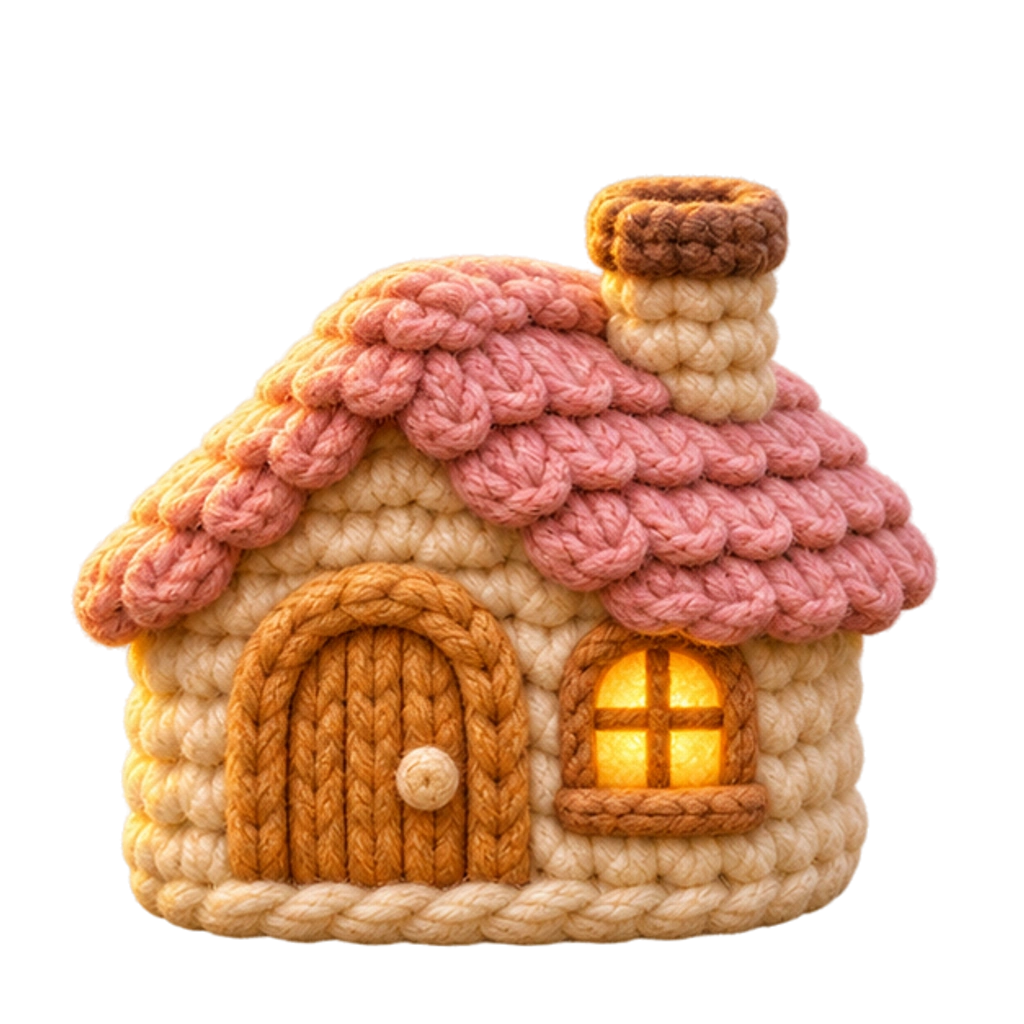
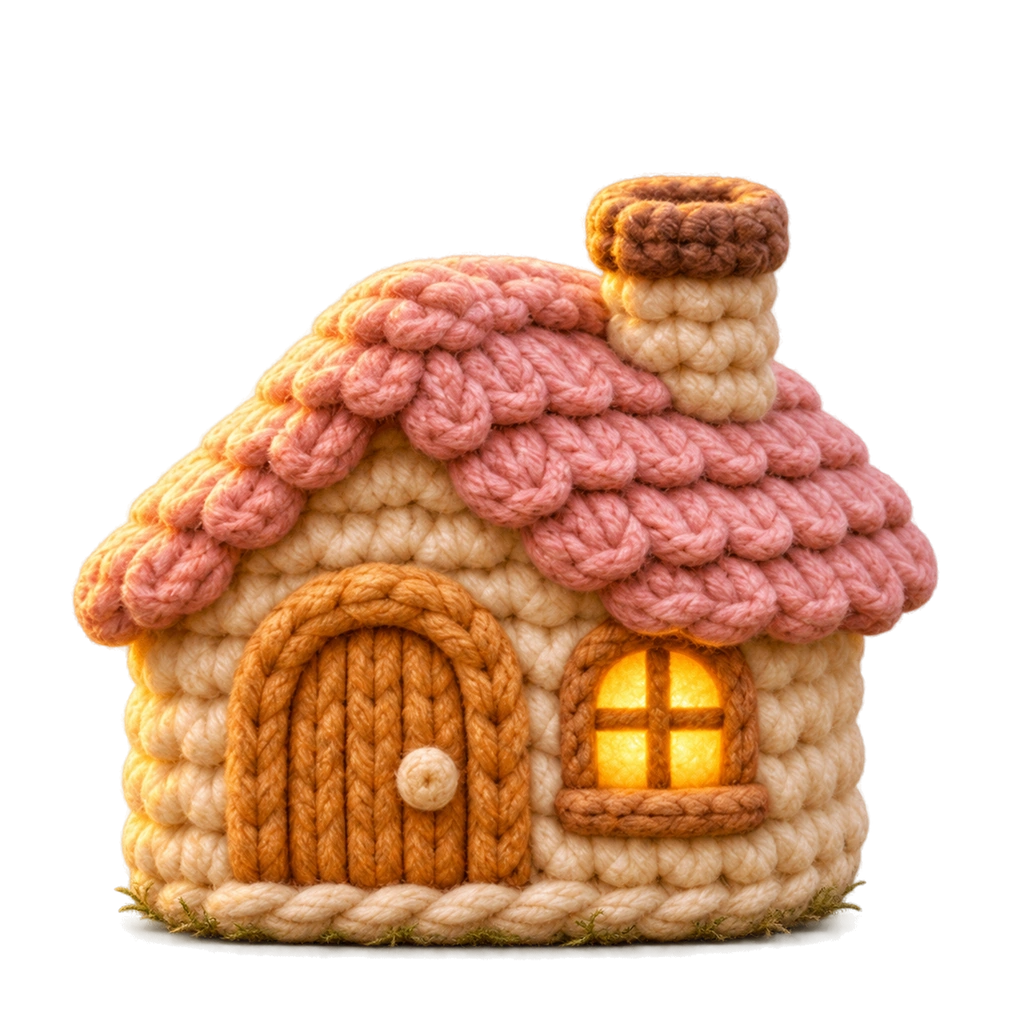
Record the reviewed reference comparison and final isolated scene build

diff --git a/play-preview/product/ui/shell.css b/play-preview/product/ui/shell.css
@@ -26,6 +26,7 @@ button:focus-visible{outline:3px solid #fff7d7;outline-offset:2px}
 .placed-object img{width:100%;height:100%;object-fit:contain;pointer-events:none;transform-origin:50% 75%}
 .placed-object:active img{transform:scale(.96)}
 .evening .placed-object{filter:brightness(.79) saturate(.8) drop-shadow(0 6px 5px #26243377)}
+.evening .placed-object.prelit{filter:none}
 .design-v4 #view-workshop .evening .meadow-back{filter:brightness(.73) saturate(.8) sepia(.08)}
 .action-dock{position:absolute;z-index:25;left:13%;right:13%;bottom:87px;display:flex;align-items:center;flex-direction:column;gap:8px}
 .action-dock .primary{min-height:50px;min-width:150px;padding:10px 22px;border-color:#a46768;background:linear-gradient(#e09aa8,#b9637e);color:#fff8e8;text-shadow:0 1px 2px #74434b;font-size:16px;font-weight:800;box-shadow:0 4px 7px #39251c66,inset 0 2px #ffe1cf99}
@@ -77,6 +78,8 @@ button:focus-visible{outline:3px solid #fff7d7;outline-offset:2px}
 .design-v4 .art-tabs .selected{filter:drop-shadow(0 0 3px #fff4a7)}
 .scene-v2 .action-dock{bottom:111px}
 .scene-v2 .action-dock .art-button{width:150px;height:50px}
+.scene-v2 .action-dock .art-navigation-action{width:112px;min-width:112px;height:84px}
+.scene-v2 .action-dock:has(.art-navigation-action) .action-hint{display:none}
 .scene-v2 .project-drawer{bottom:108px}
 .scene-v2 .drawer-shade{bottom:103px}
 .scene-v2 #view-workshop .scene-art{height:calc(100% - 36px)}

diff --git a/product/art-experiments/scene-v2/review/compare-after.html b/product/art-experiments/scene-v2/review/compare-after.html
@@ -1,0 +1,1 @@
+<!doctype html><html lang="ru"><meta charset="utf-8"><title>Сравнение 390×844</title><style>*{box-sizing:border-box}body{margin:0;padding:24px;background:#20271f;color:#faf0d9;font:16px system-ui}h1{font-size:22px;margin:0 0 8px}p{font-size:13px;margin:0 0 20px;color:#cbd0c3}.grid{display:flex;gap:24px}.label{height:30px;font-weight:650}.frame{width:390px;height:844px;background:#101610;display:flex;align-items:center;justify-content:center}.frame img{display:block;width:390px;height:844px;object-fit:contain}</style><h1>Одинаковые рамки 390×844 · после исправления</h1><p>Референс исходно 387×620: вписан целиком без искажения пропорций. Справа — фактический экран проверенной игровой сборки, пять созданных предметов.</p><div class="grid"><section><div class="label">Утверждённый референс</div><div class="frame"><img src="reference-v4.webp"></div></section><section><div class="label">Исправленная игровая сцена</div><div class="frame"><img src="after-day-390.png"></div></section></div></html>

diff --git a/product/VISUAL-REVIEW-V2.md b/product/VISUAL-REVIEW-V2.md
@@ -1,0 +1,40 @@
+# Visual repair v2 — first complete review scene
+
+The owner's 6 November requirement is the release gate: the actual game must not remain visibly below `design-system/reference-v4.webp` in material quality, volume, lighting, composition or cohesion. Passing technical tests alone does not meet it.
+
+## Comparison method
+
+The approved reference is 387×620. Both comparison panes are exactly390×844; the reference is contained without stretching or cropping and the game is a native390×844 browser capture. The full meadow is earned by playing all five projects. Empty-state evidence checks that future objects are not baked into the background.
+
+- [Before comparison](art-experiments/scene-v2/review/comparison-before.png)
+- [Candidate comparison](art-experiments/scene-v2/review/comparison-after.png)
+- [Evening](art-experiments/scene-v2/review/after-evening-390.png)
+- [Empty meadow](art-experiments/scene-v2/review/after-empty-390.png)
+- [Workshop](art-experiments/scene-v2/review/after-workshop-390.png)
+- [Empty workshop and start action](art-experiments/scene-v2/review/after-empty-workshop-390.png)
+
+## Repairs and evidence
+
+| Criterion | Previous limitation | Candidate change |
+| --- | --- | --- |
+| Material and volume | Flat scenery and three synthetic placeholders | Detailed textile environment, three complete staged items, illustrated controls |
+| Lighting | Uniform background and weak sprite integration | Directional daylight, layered evening environment, separately lit cottage with warm window |
+| Composition | Large panels displaced the world; transparent boxes stole taps | One-screen diorama, compact HUD, project drawer, alpha-bound input targets |
+| Ground contact | Cottage overlapped the bridge and then appeared detached from grass | Upslope placement, tight local contact shadow and irregular moss at the base |
+| Cohesion | Generic primary actions among illustrated navigation | Shared illustrated normal/pressed/disabled actions, with live dynamic values outside artwork |
+| Progressive reveal | Three final objects had no real artwork | All five projects have separate stages and sprites; an empty save reveals none |
+
+The source prompts, selected masters, locked export pipeline and per-file hashes are recorded in [scene-v2](art-experiments/scene-v2/README.md). The ready-only production catalog and the approved reference remain unchanged. This is the isolated `TECHNICAL PREVIEW — ART NOT APPROVED` route, not a final visual-baseline acceptance.
+
+## Verification status
+
+PR [#25](https://github.com/apazidi/mir-na-nitke/pull/25) received independent technical and visual review. The initial full-scene review explicitly withheld visual acceptance for cottage ground contact, evening window lighting and inconsistent primary actions. After the repair, a second review of the actual day/evening, empty and workshop screens found those defects resolved and no remaining obvious gap in material, volume, depth, composition or cohesion that would block a labelled review deployment. This is a recommendation to review the candidate, not a claim that it surpasses the reference or that the owner has accepted a new baseline.
+
+- 33 unit tests pass; content validation has0 errors and9 existing draft-bunny asset warnings.
+- All65 bundled files pass byte length and SHA-256 verification against their pinned sources.
+- The real browser loop earns and places all five objects through craft, pet, idle and sniff actions, then verifies reload. It does not grant an artificial wallet or unlock future objects for the comparison.
+- Empty, two-object and full day/evening states are checked at360×800,390×844 and430×932. Full scenes fit one viewport. Other save namespaces remain intact.
+- Focused Chrome checks cover initial start, pressed actions, placement and navigation. The cottage switches to its painted evening asset with computed `filter:none`; its anchor remains stable.
+- The exact deployment, required CI and external HTTPS/legacy-route verification are recorded on PR#25. The stable review address is [play-preview](https://apazidi.github.io/mir-na-nitke/play-preview/).
+
+The next product step after visual milestone acceptance is to give the tree, cottage and butterfly their own meaningful interactions, then use this reviewed scene as the template for further meadows.

diff --git a/product/ROADMAP-1.0.md b/product/ROADMAP-1.0.md
@@ -10,6 +10,7 @@
 - Engine #14 и интеграция #19 приняты: `product/app/` содержит детерминированный движок, runtime и сохранения; GameShell проходит ресурсный цикл.
 - Доставка #22 закрыта через PR #24: [HTTPS technical preview](https://apazidi.github.io/mir-na-nitke/play-preview/) проверено на 360/390/430. Это техническая веха, а не художественная приёмка.
 - Главный приоритет владельца от 6 ноября: следующая версия должна выглядеть как `design-system/reference-v4.webp` или лучше. #23 остаётся открытой, пока фактический игровой экран заметно уступает референсу по материалам, объёму, свету, композиции или цельности.
+- В [PR #25](https://github.com/apazidi/mir-na-nitke/pull/25) собран кандидат первой полной полянки: пять создаваемых предметов, детализированные день/вечер, рисованные основные действия и экран без прокрутки. Исправления и сравнение 390×844 описаны в [VISUAL-REVIEW-V2.md](VISUAL-REVIEW-V2.md). Финальное художественное принятие владельцем отдельно от технической публикации; `ready`-каталог не расширен черновиками.
 - Черновые пакеты кролика/цветка/полянки — не выпускные ассеты. Графическое качество и интеграция ещё должны быть подтверждены.
 - Legacy v2/v3/v4.x не переписывать; использовать для проверки механики и визуальных сравнений.
 
